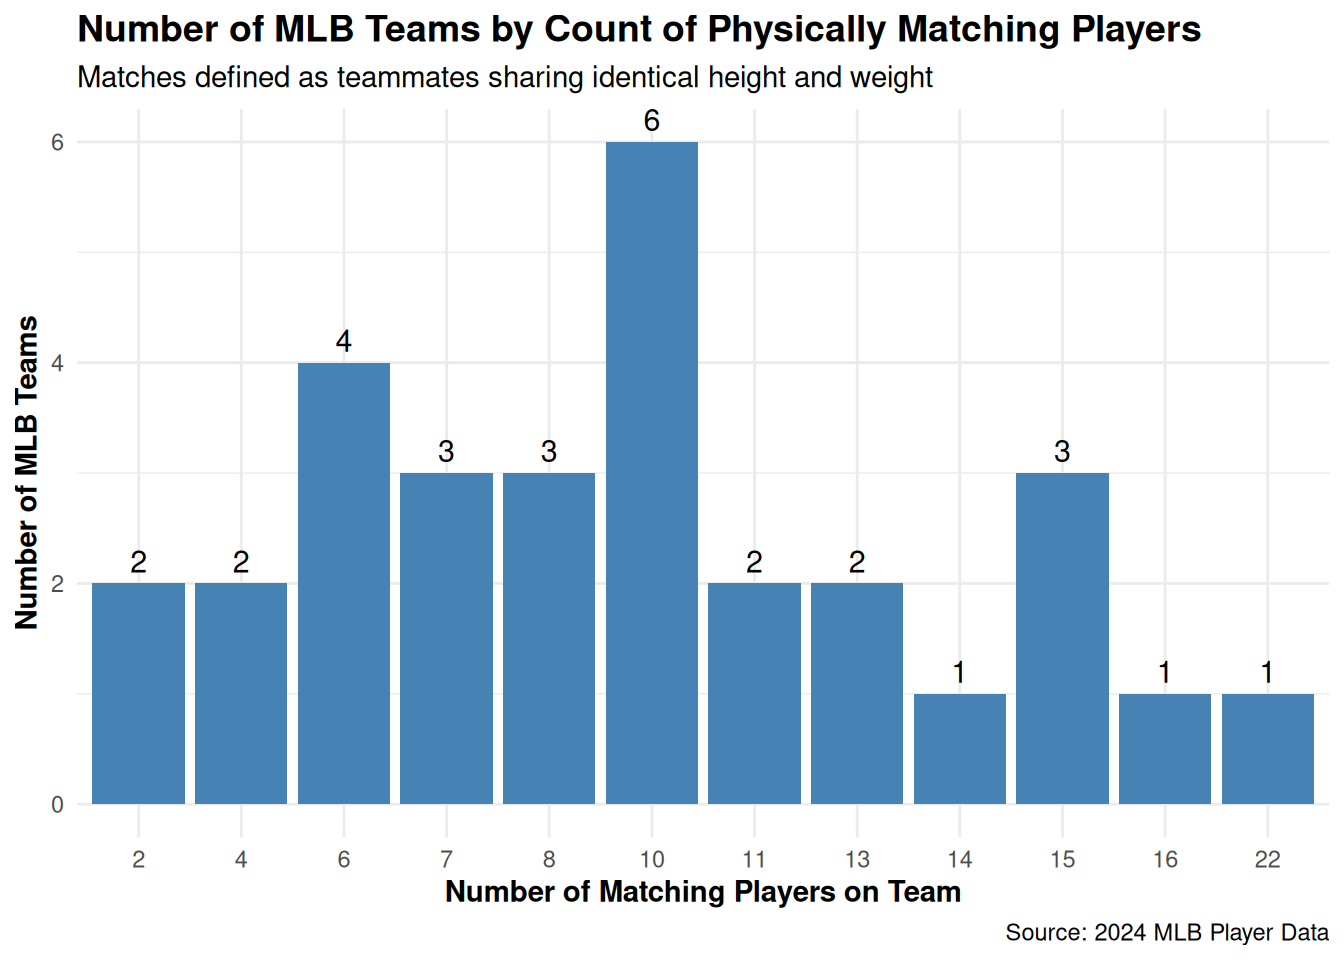
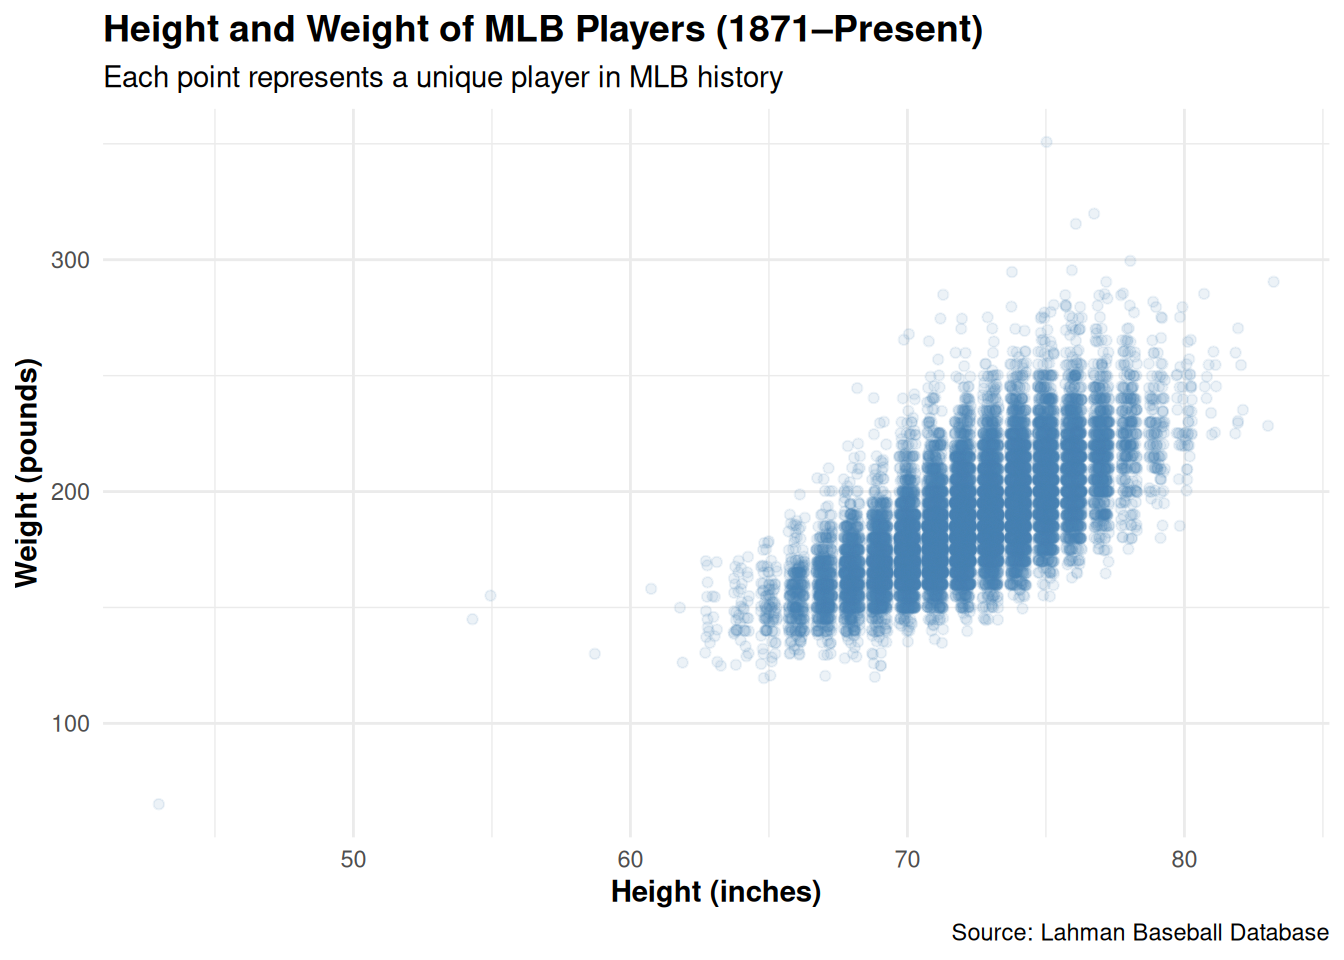
Built site for gh-pages

diff --git a/index.html b/index.html
@@ -143,6 +143,19 @@ ul.task-list li input[type="checkbox"] {
 </header>
 
 
+<section id="height-vs.-weight-across-mlb-history" class="level2">
+<h2 class="anchored" data-anchor-id="height-vs.-weight-across-mlb-history">Height vs.&nbsp;Weight Across MLB History</h2>
+<p>To examine physical traits across baseball history, we look at the relationship between height and weight for every unique player in Major League Baseball history (over 20,000 players).</p>
+<div class="cell">
+<div class="cell-output-display">
+<div>
+<figure class="figure">
+<p><img src="index_files/figure-html/unnamed-chunk-2-1.png" class="img-fluid figure-img" width="672"></p>
+</figure>
+</div>
+</div>
+</div>
+</section>
 <section id="how-many-teams-share-the-same-number-of-similar-players" class="level2">
 <h2 class="anchored" data-anchor-id="how-many-teams-share-the-same-number-of-similar-players">How Many Teams Share the Same Number of Similar Players?</h2>
 <p>In baseball, physical traits such as height and weight often cluster around position requirements. Here, we define “look-alikes” as teammates who share identical height (in inches) and weight (in pounds).</p>
@@ -151,7 +164,7 @@ ul.task-list li input[type="checkbox"] {
 <div class="cell-output-display">
 <div>
 <figure class="figure">
-<p><img src="index_files/figure-html/unnamed-chunk-2-1.png" class="img-fluid figure-img" width="672"></p>
+<p><img src="index_files/figure-html/unnamed-chunk-3-1.png" class="img-fluid figure-img" width="672"></p>
 </figure>
 </div>
 </div>
